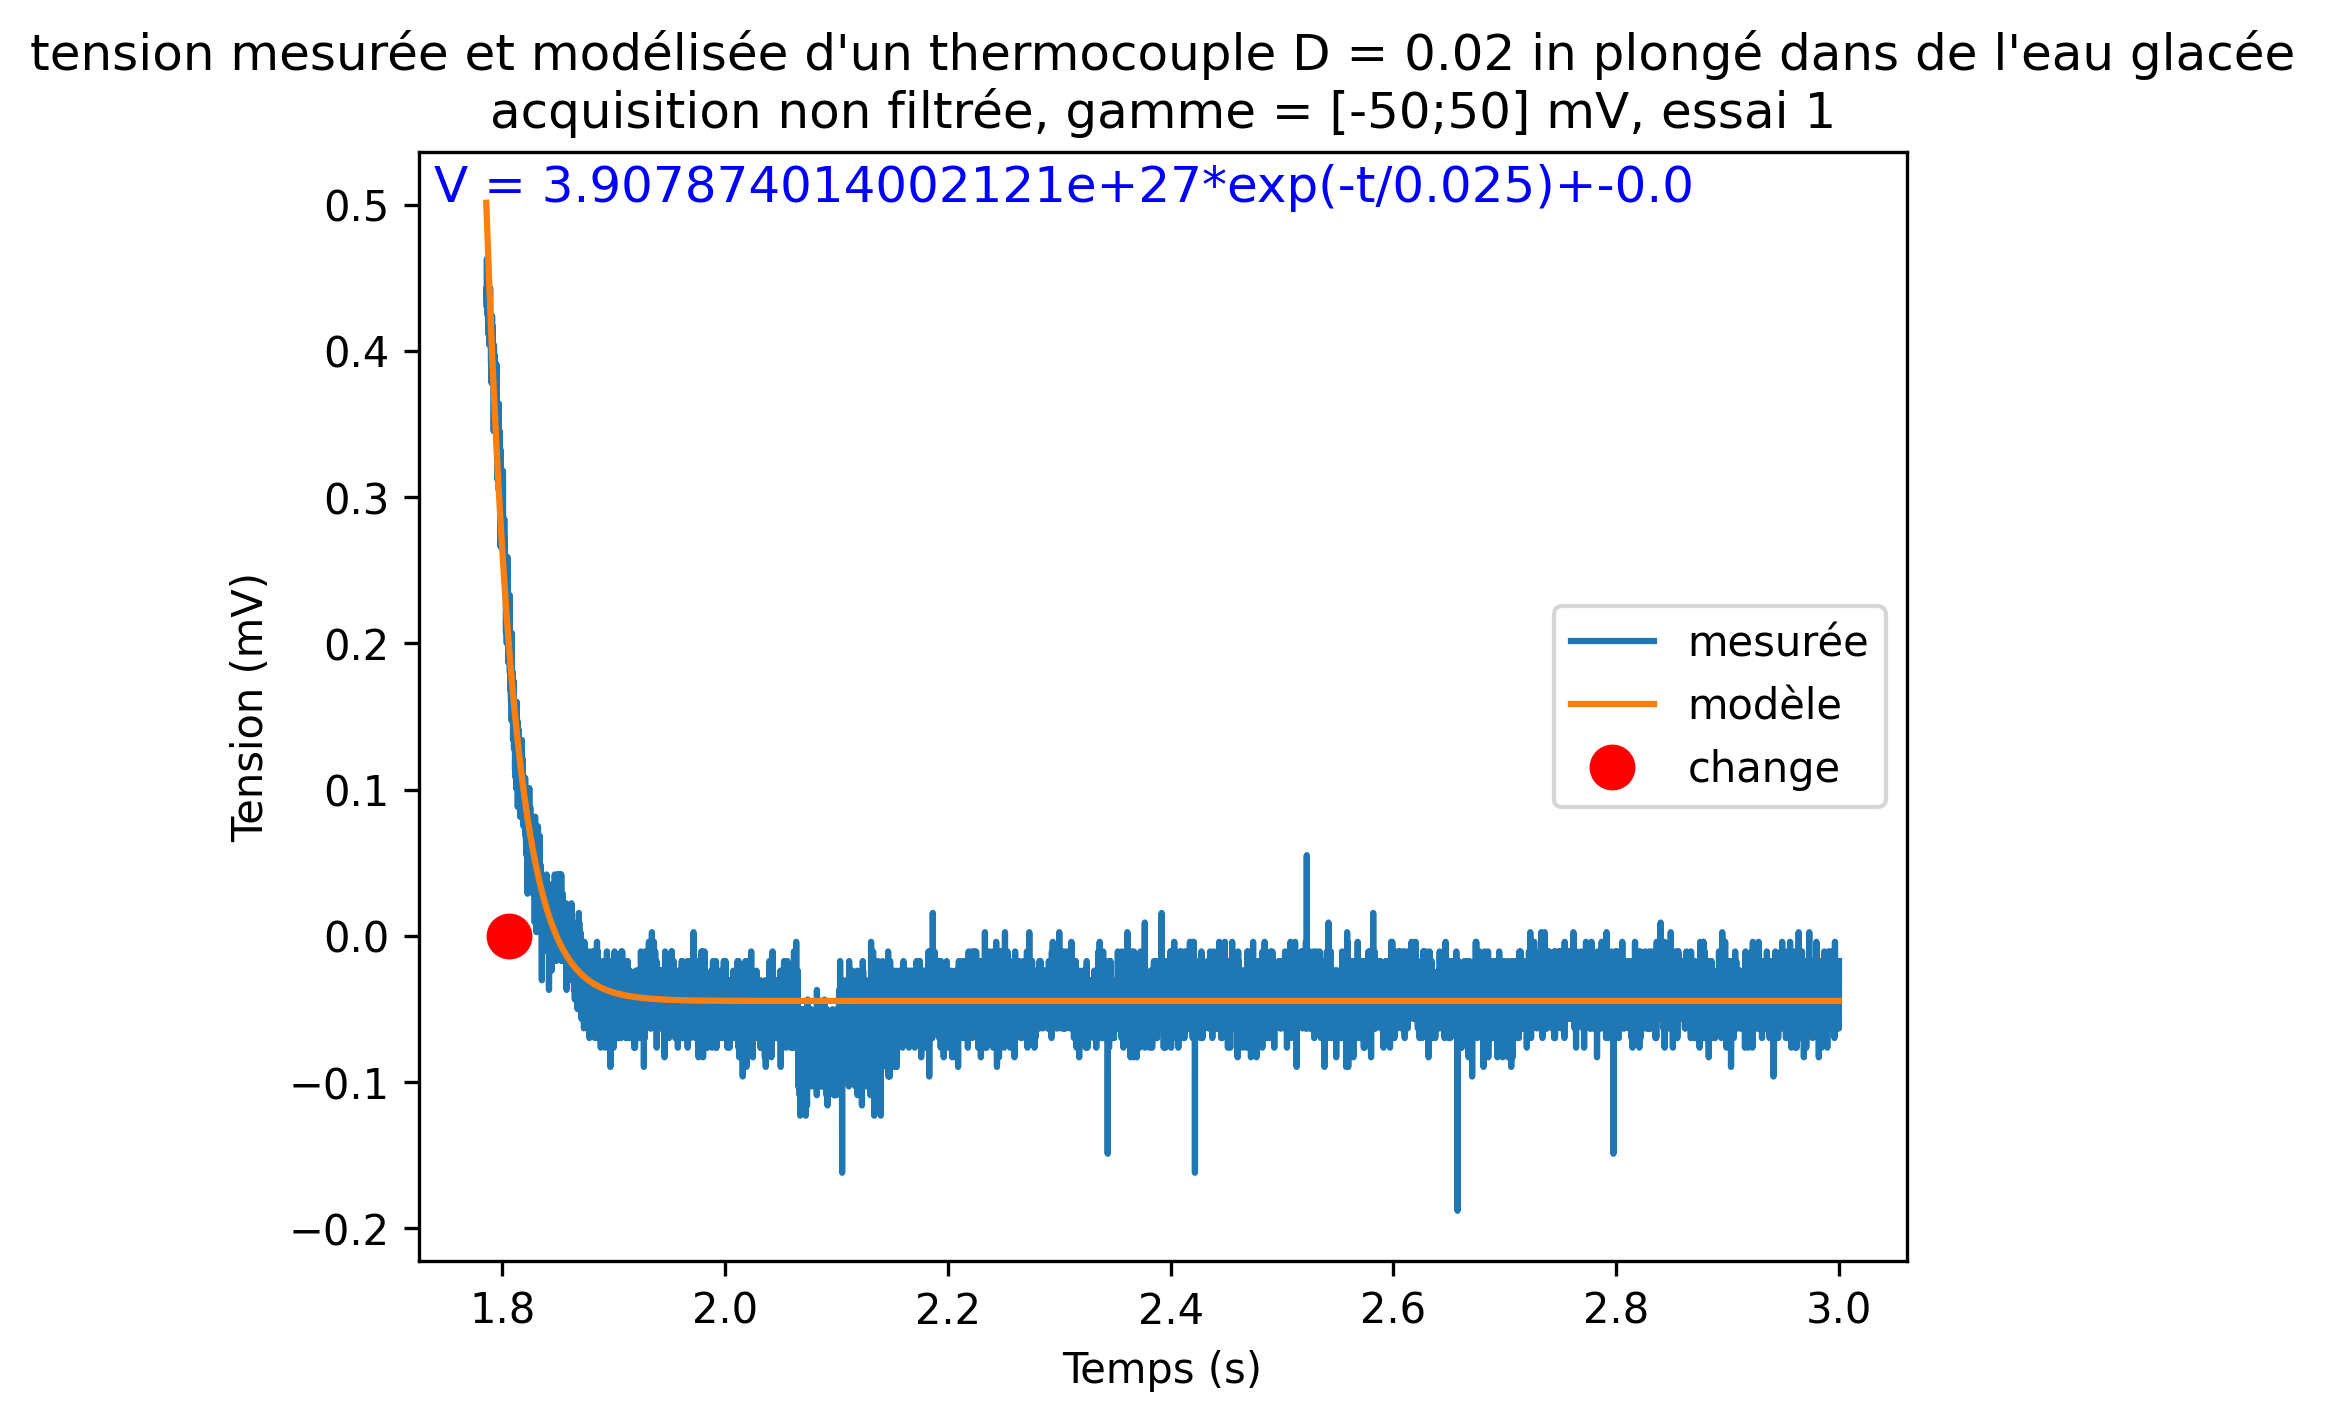
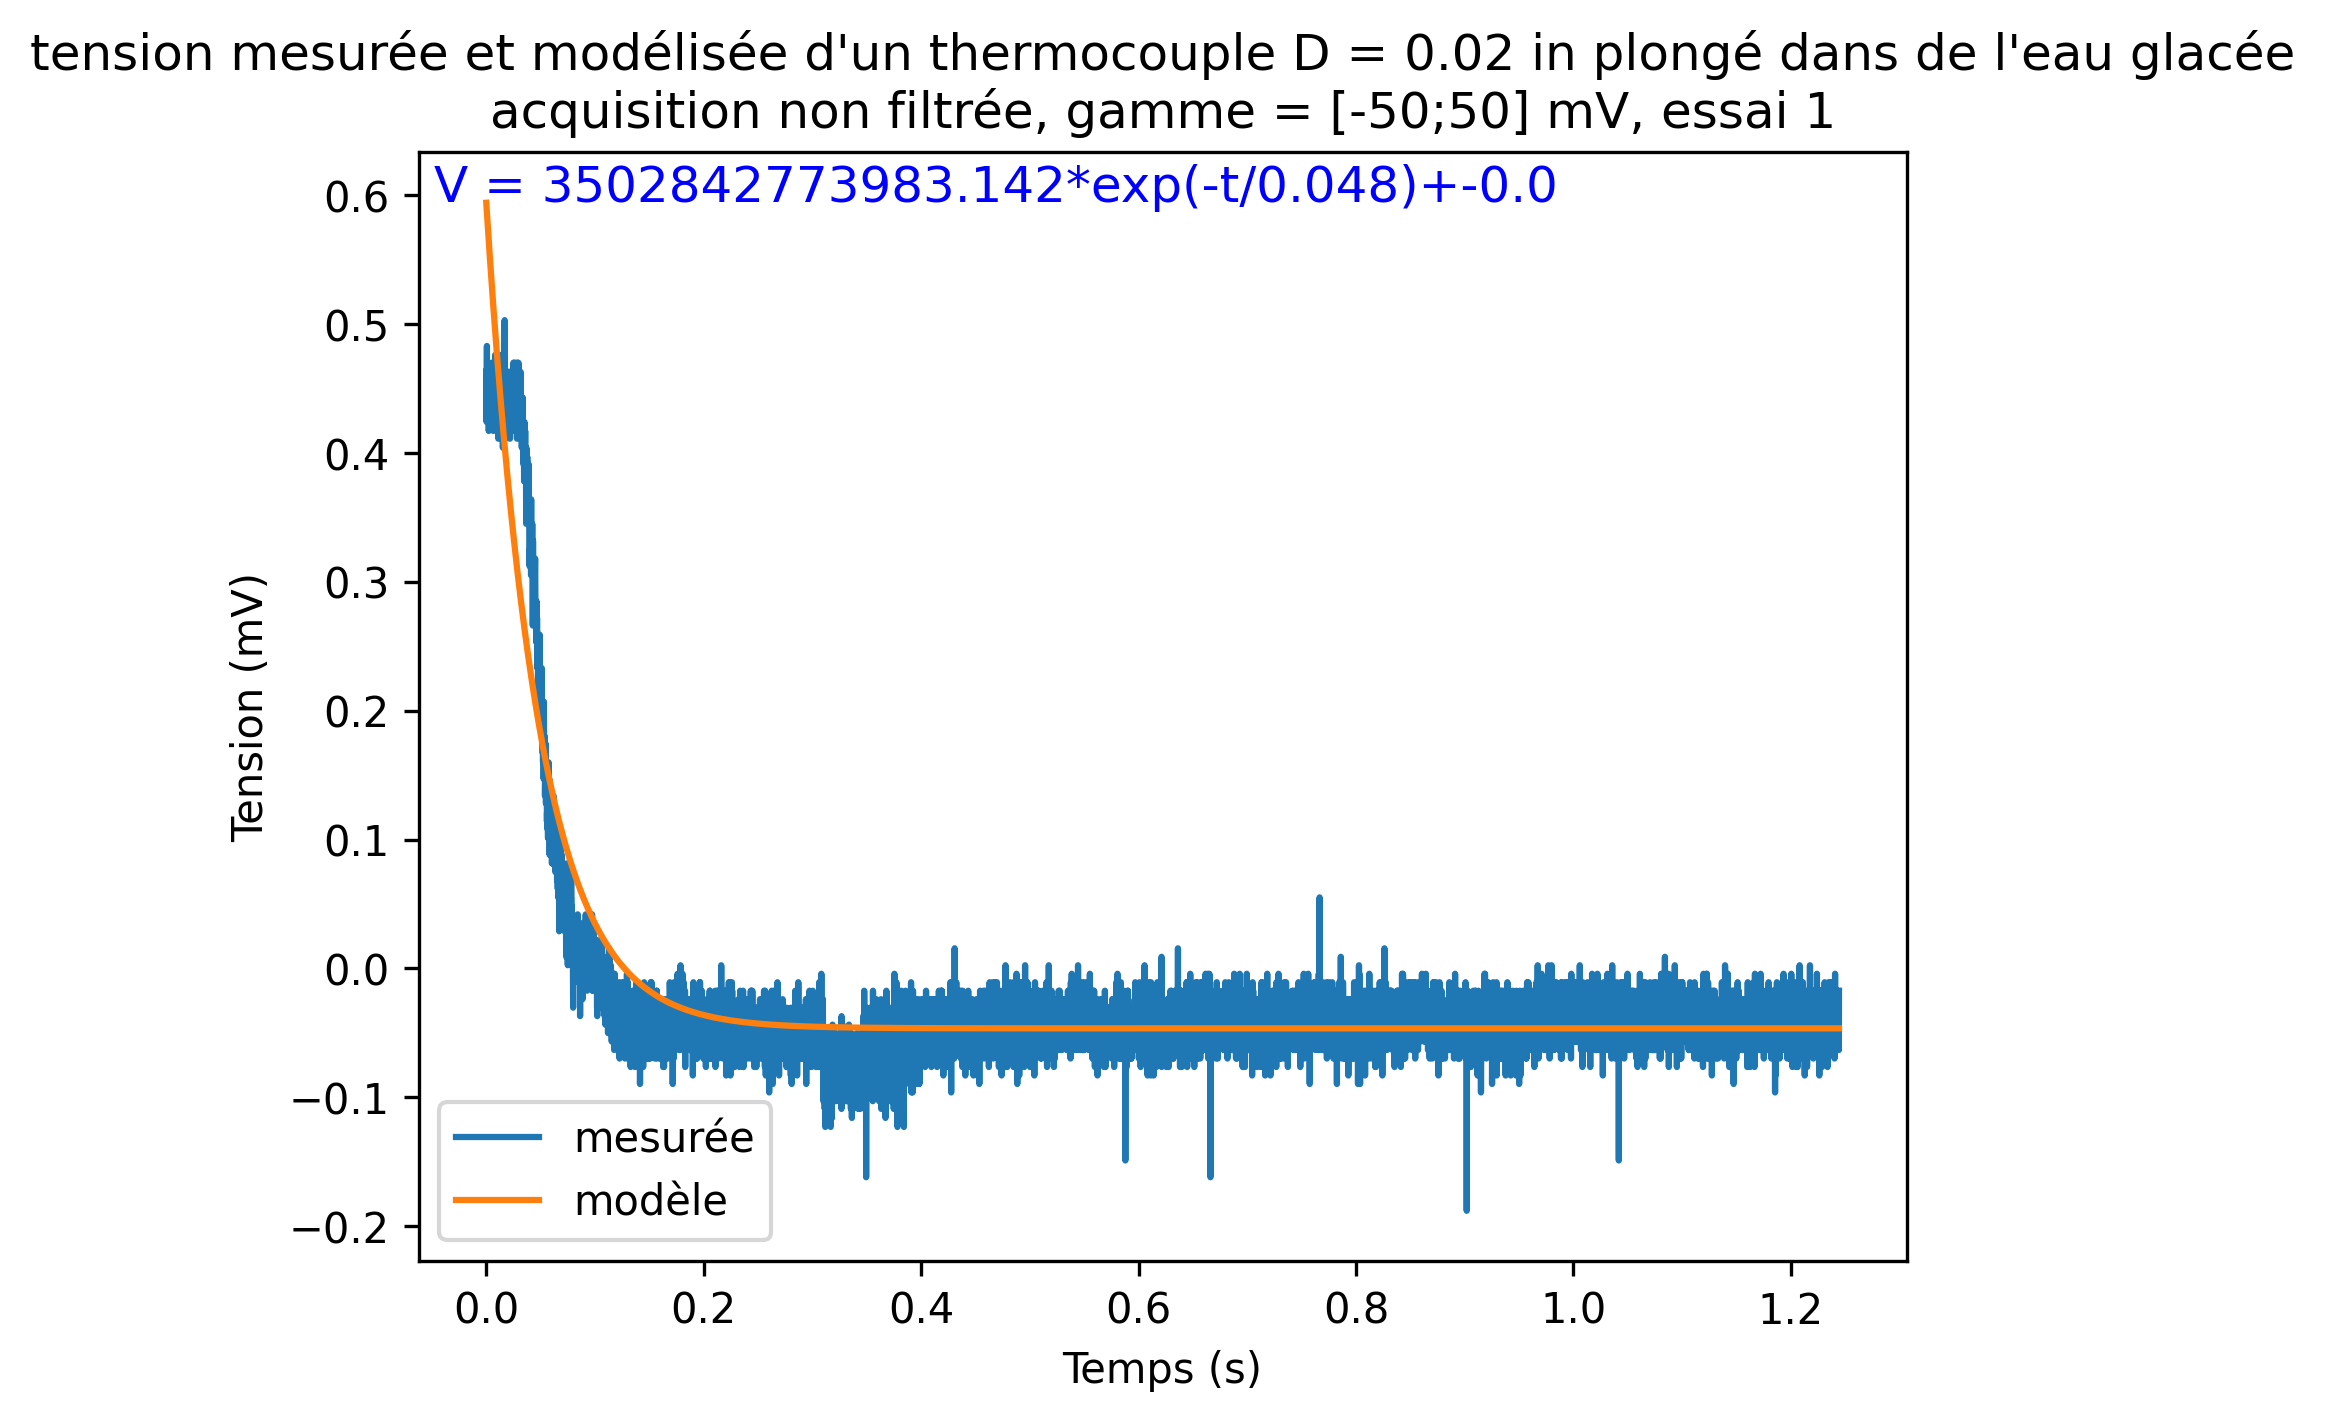
garbage results, oddly fitting curves

diff --git a/tp6/data_work/actual_regression.py b/tp6/data_work/actual_regression.py
@@ -3,14 +3,42 @@ from scipy.optimize import curve_fit
 from data_work.parsers import parse_data_file
 
 
-def model(t, a, b, c):
-    return a * np.exp(-1 * t / b) + c
-
-
 def do_regression(path, start):
     df = parse_data_file(path)
+    window = 500
+    weights = np.ones(window) / window
+    df["Tension_smooth"] = np.convolve(df["Tension"], weights, mode="same")
+
     df = df[start:]
     print("doing regression")
-    x, y = df["X_Value"], df["Tension"]
-    params, _ = curve_fit(model, x, y, maxfev=3000)
+    x, y = df["X_Value"], df["Tension_smooth"]
+    c_2 = y[-500:].mean()
+    y_shifted = y - c_2
+    mask = y_shifted > 0
+    x_lin = x[mask]
+    y_lin = y_shifted[mask]
+    log_y = np.log(y_lin)
+    coeffs = np.polyfit(x_lin, log_y, 1)
+    slope, intercept = coeffs
+    b_2 = -1 / slope
+    a_2 = np.exp(intercept)
+
+    def model(t, a, b, c):
+        return (a) * np.exp(-(t / b)) + c
+
+    def model2(t, b):
+        return (y[start] - c_2) * np.exp(-(t / b)) + c_2
+
+    # lower_bounds = [0, 0, 0]  # minimum values for a, b, c
+    # upper_bounds = [1000000, 10, 0.01]
+    params, pcov = curve_fit(
+        model,
+        x,
+        y,
+        # p0=[a_2, b_2, c_2],
+        maxfev=7000,
+        # bounds=(lower_bounds, upper_bounds),
+    )
+    print(np.sqrt(np.diag(pcov)))
+    params2 = a_2, params[0], c_2
     return params

diff --git a/tp6/data_work/graph.py b/tp6/data_work/graph.py
@@ -49,12 +49,17 @@ def make_graph(path):
     filename = os.path.splitext(os.path.basename(path))[0]
     graphname = parse_name(filename)
     min = detect_min_deriv(df)
-    start = int(min[0] * 10000) - 200
+    start = int(min[0] * 10000) - 500
     a, b, c = do_regression(path, start)
     reg = regression(a, b, c)
-    ax.plot(df["X_Value"][start:], df["Tension"][start:] * 1000, label="mesurée")
-    ax.plot(df["X_Value"][start:], reg[start:] * 1000, label="modèle")
-    ax.plot(min[0], min[1], "o", markersize=10, color="red", label="change")
+    ax.plot(
+        df["X_Value"][start:] - df["X_Value"][start],
+        df["Tension"][start:] * 1000,
+        label="mesurée",
+    )
+    ax.plot(
+        df["X_Value"][start:] - df["X_Value"][start], reg[start:] * 1000, label="modèle"
+    )
     ax.set_xlabel("Temps (s)")
     ax.set_ylabel("Tension (mV)")
     ax.set_title(graphname)
